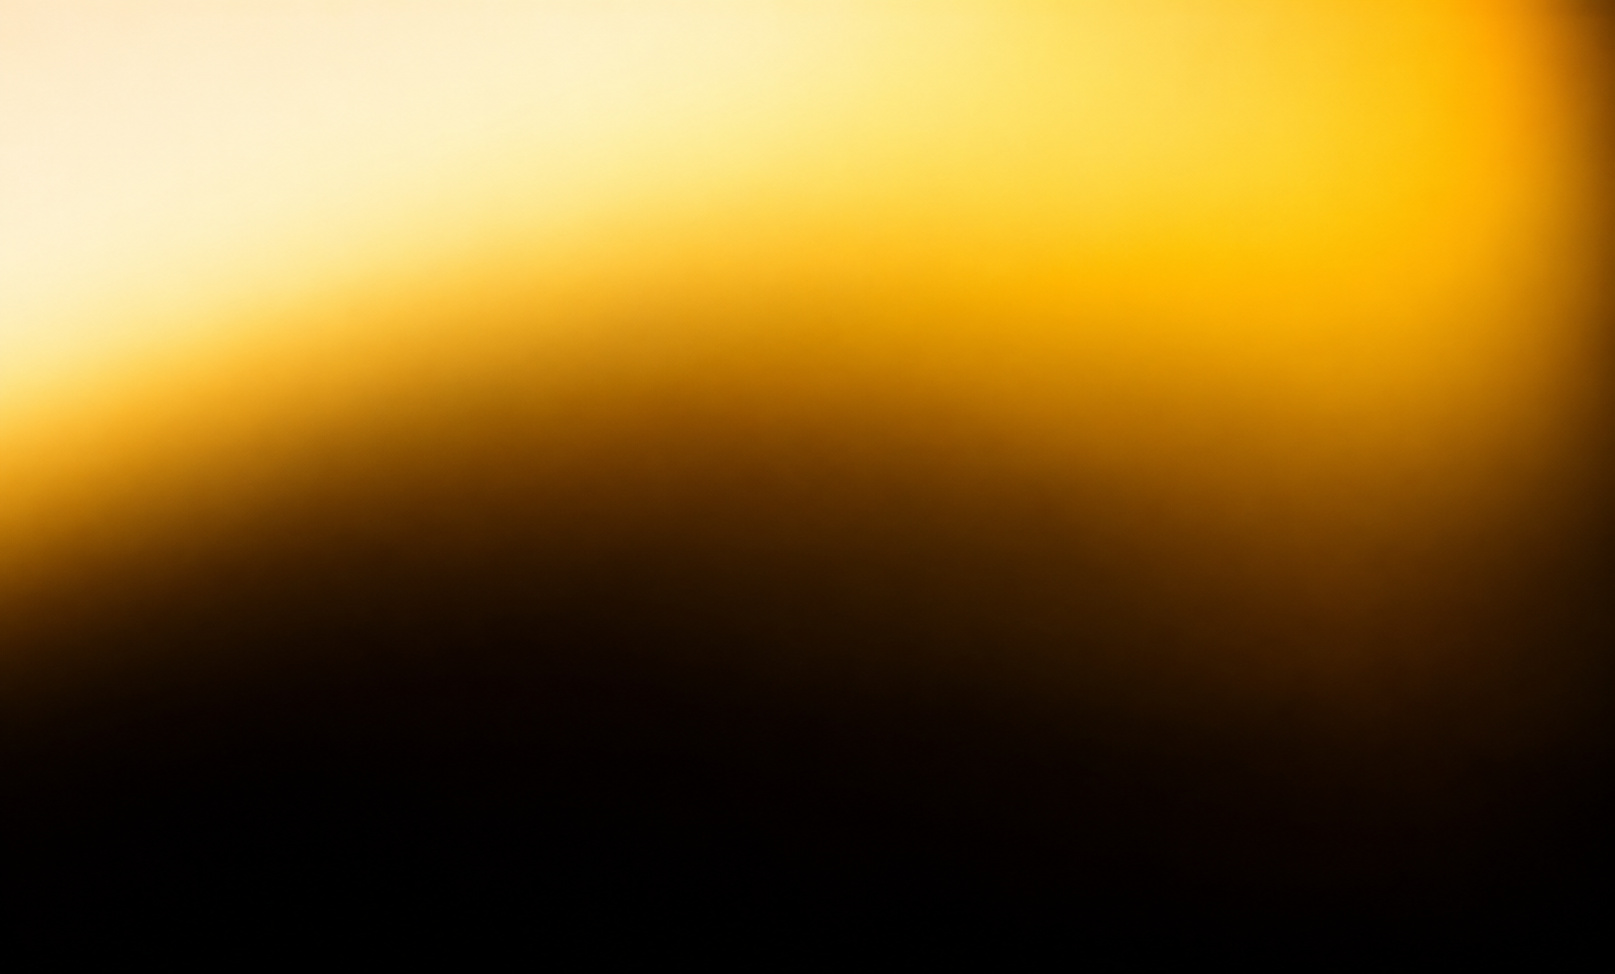
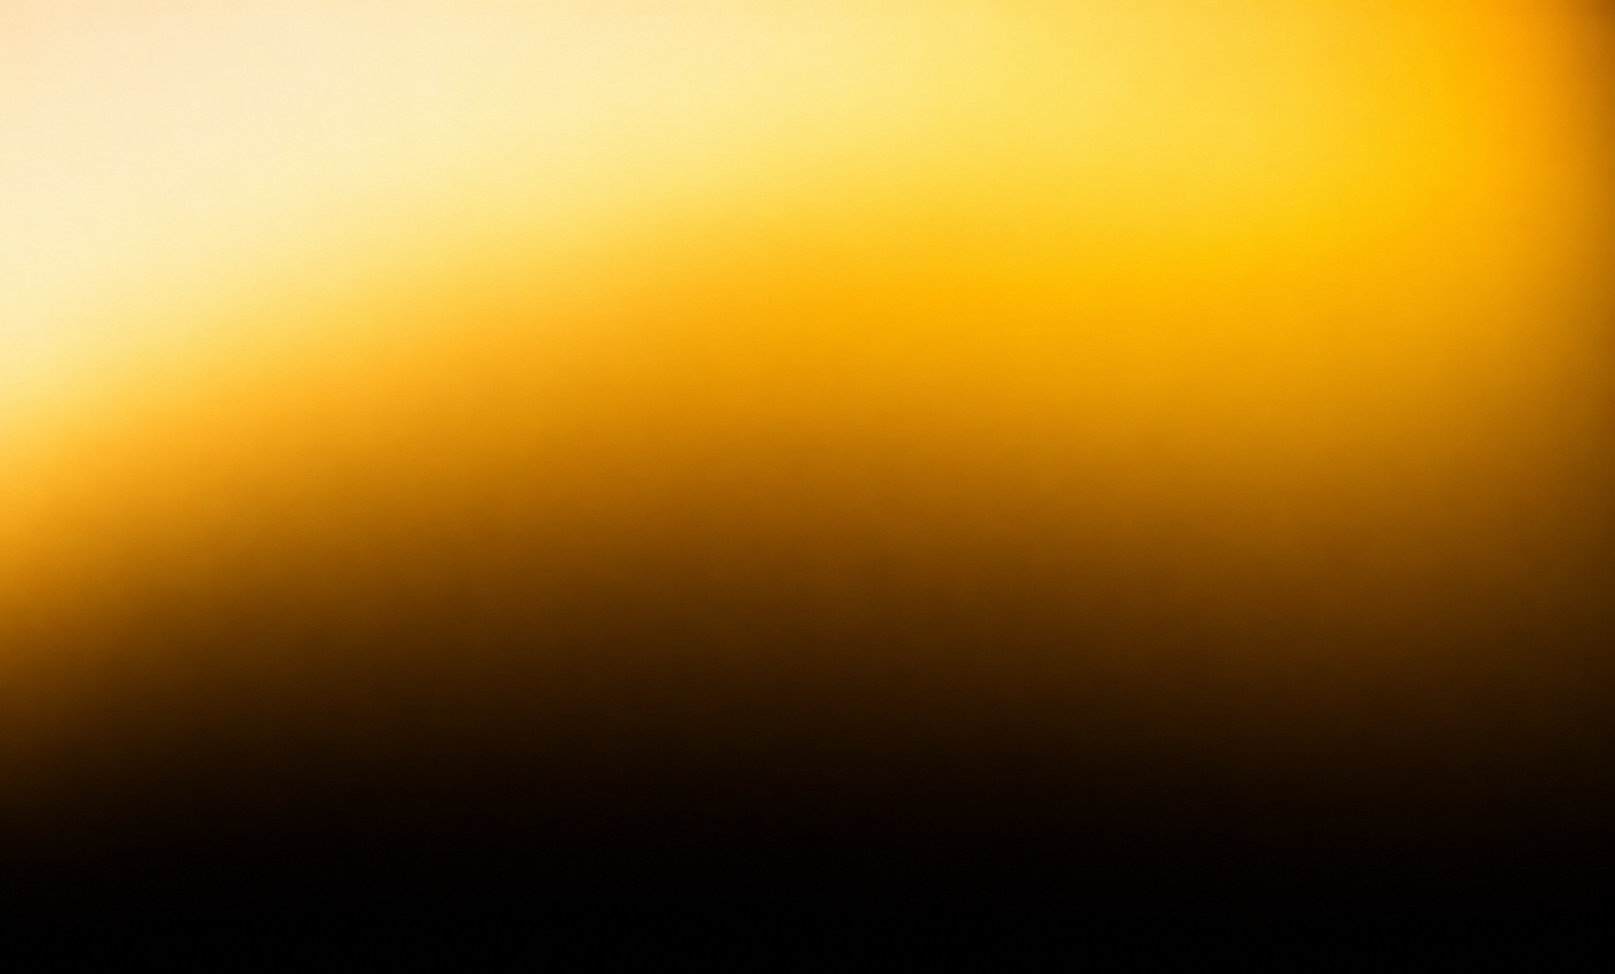
Aurum black and gold system; new login background
- Admin chrome in black with a gold rule; dark sidebar with gold active
  states; gold tab underlines, row highlights and progress
- Warm bronze/gold chart palette (validated for colour-vision deficiency)
- GP and investor portals keep their own brand colours
- Login background replaced with the ivory-to-amber gradient

Claude-Session: https://claude.ai/code/session_01LmAqqPaxgHdyrEgspiCfJx

diff --git a/src/components/admin/AdminTopBar.tsx b/src/components/admin/AdminTopBar.tsx
@@ -3,41 +3,41 @@ import { Bell, Search, ShieldCheck } from "lucide-react";
 import { AurumWordmark } from "@/components/brand/Logo";
 import { RoleSwitcher } from "./PreviewRole";
 
+/** Aurum chrome: black bar, gold rule — the administrator's own brand. */
 export function AdminTopBar({ context }: { context?: string }) {
   return (
-    <header className="flex h-14 items-center justify-between border-b border-stone-200 bg-white px-6">
-      <div className="flex items-center gap-5">
-        <Link href="/admin" aria-label="Aurum home">
-          <AurumWordmark />
-        </Link>
-        <span className="h-5 w-px bg-stone-200" />
-        <span className="text-[12px] font-semibold uppercase tracking-[0.14em] text-stone-500">
-          {context ?? "Administration"}
-        </span>
-      </div>
-      <div className="flex items-center gap-2">
-        <div className="relative hidden md:block">
-          <Search size={14} strokeWidth={1.8} className="absolute left-3 top-1/2 -translate-y-1/2 text-stone-400" />
-          <input
-            placeholder="Search funds, investors, documents"
-            className="h-8 w-[300px] rounded-[3px] border border-stone-200 bg-stone-50 pl-8 pr-12 text-[13px] placeholder:text-stone-400 focus:border-ink-900 focus:bg-white focus:outline-none"
-          />
-          <kbd className="absolute right-2 top-1/2 -translate-y-1/2 rounded-[2px] border border-stone-200 bg-white px-1.5 font-mono text-[10px] text-stone-500">
-            ⌘K
-          </kbd>
+    <header className="relative z-20 bg-ink-950 text-white">
+      <div className="flex h-14 items-center justify-between px-6">
+        <div className="flex items-center gap-5">
+          <Link href="/admin" aria-label="Aurum home">
+            <AurumWordmark tone="light" />
+          </Link>
+          <span className="h-5 w-px bg-white/15" />
+          <span className="text-[12px] font-semibold uppercase tracking-[0.14em] text-gold-400">{context ?? "Administration"}</span>
         </div>
-        <button className="relative flex h-8 w-8 items-center justify-center rounded-[3px] text-stone-500 hover:bg-stone-100 hover:text-ink-900" aria-label="Notifications">
-          <Bell size={16} strokeWidth={1.6} />
-          <span className="absolute right-1.5 top-1.5 h-1.5 w-1.5 rounded-full bg-gold-400" />
-        </button>
-        <Link
-          href="/admin/access"
-          className="flex h-8 items-center gap-1.5 rounded-[3px] px-2 text-[12px] font-medium text-stone-500 hover:bg-stone-100 hover:text-ink-900"
-        >
-          <ShieldCheck size={15} strokeWidth={1.6} /> Access
-        </Link>
-        <RoleSwitcher />
+        <div className="flex items-center gap-2">
+          <div className="relative hidden md:block">
+            <Search size={14} strokeWidth={1.8} className="absolute left-3 top-1/2 -translate-y-1/2 text-white/40" />
+            <input
+              placeholder="Search funds, investors, documents"
+              className="h-8 w-[300px] rounded-[3px] border border-white/10 bg-white/[0.06] pl-8 pr-12 text-[13px] text-white placeholder:text-white/40 focus:border-gold-400 focus:bg-white/10 focus:outline-none"
+            />
+            <kbd className="absolute right-2 top-1/2 -translate-y-1/2 rounded-[2px] border border-white/15 px-1.5 font-mono text-[10px] text-white/50">⌘K</kbd>
+          </div>
+          <button className="relative flex h-8 w-8 items-center justify-center rounded-[3px] text-white/60 hover:bg-white/10 hover:text-white" aria-label="Notifications">
+            <Bell size={16} strokeWidth={1.6} />
+            <span className="absolute right-1.5 top-1.5 h-1.5 w-1.5 rounded-full bg-gold-400" />
+          </button>
+          <Link
+            href="/admin/access"
+            className="flex h-8 items-center gap-1.5 rounded-[3px] px-2 text-[12px] font-medium text-white/60 hover:bg-white/10 hover:text-white"
+          >
+            <ShieldCheck size={15} strokeWidth={1.6} /> Access
+          </Link>
+          <RoleSwitcher />
+        </div>
       </div>
+      <div className="h-[2px] bg-gradient-to-r from-gold-400 via-gold-500 to-gold-700" />
     </header>
   );
 }

diff --git a/src/components/fund/FundSidebar.tsx b/src/components/fund/FundSidebar.tsx
@@ -66,20 +66,20 @@ const groups = [
 export function FundSidebar() {
   const path = usePathname();
   return (
-    <nav className="flex w-[232px] shrink-0 flex-col border-r border-stone-200 bg-white">
-      <div className="border-b border-stone-200 p-3">
-        <button className="flex w-full items-center justify-between rounded-[3px] border border-stone-200 px-3 py-2 text-left hover:border-stone-400">
+    <nav className="flex w-[232px] shrink-0 flex-col bg-ink-900 text-white">
+      <div className="border-b border-white/10 p-3">
+        <button className="flex w-full items-center justify-between rounded-[3px] border border-white/15 px-3 py-2 text-left hover:border-gold-400/60">
           <span>
-            <span className="block text-[10px] font-semibold uppercase tracking-[0.14em] text-stone-500">Fund Solution</span>
-            <span className="block text-[13px] font-semibold text-ink-900">All vehicles</span>
+            <span className="block text-[10px] font-semibold uppercase tracking-[0.14em] text-gold-400">Fund Solution</span>
+            <span className="block text-[13px] font-semibold text-white">All vehicles</span>
           </span>
-          <ChevronsUpDown size={14} strokeWidth={1.8} className="text-stone-400" />
+          <ChevronsUpDown size={14} strokeWidth={1.8} className="text-white/40" />
         </button>
       </div>
       <div className="flex-1 overflow-y-auto px-3 py-4">
         {groups.map((g, gi) => (
           <div key={gi} className={gi > 0 ? "mt-5" : ""}>
-            {g.label && <div className="mb-1.5 px-2 text-[10px] font-semibold uppercase tracking-[0.14em] text-stone-400">{g.label}</div>}
+            {g.label && <div className="mb-1.5 px-2 text-[10px] font-semibold uppercase tracking-[0.14em] text-white/35">{g.label}</div>}
             <ul className="space-y-px">
               {g.items.map((it) => {
                 const active = "exact" in it && it.exact ? path === it.href : path.startsWith(it.href);
@@ -90,14 +90,14 @@ export function FundSidebar() {
                       href={it.href}
                       className={cx(
                         "relative flex items-center gap-2.5 rounded-[3px] px-2 py-[7px] text-[13px] transition-colors",
-                        active ? "bg-stone-100 font-semibold text-ink-900" : "text-stone-600 hover:bg-stone-50 hover:text-ink-900",
+                        active ? "bg-white/[0.07] font-semibold text-white" : "text-white/60 hover:bg-white/[0.04] hover:text-white",
                       )}
                     >
-                      {active && <span className="absolute -left-3 top-1 bottom-1 w-[2px] bg-gold-400" />}
-                      <Icon size={15} strokeWidth={active ? 2 : 1.6} />
+                      {active && <span className="absolute -left-3 top-1 bottom-1 w-[3px] bg-gold-400" />}
+                      <Icon size={15} strokeWidth={active ? 2 : 1.6} className={active ? "text-gold-400" : ""} />
                       <span className="flex-1">{it.label}</span>
                       {"badge" in it && it.badge ? (
-                        <span className="num rounded-[2px] bg-ink-900 px-1.5 py-px text-[10px] font-semibold text-white">{it.badge}</span>
+                        <span className="num rounded-[2px] bg-gold-400 px-1.5 py-px text-[10px] font-semibold text-ink-900">{it.badge}</span>
                       ) : null}
                     </Link>
                   </li>
@@ -107,8 +107,8 @@ export function FundSidebar() {
           </div>
         ))}
       </div>
-      <div className="border-t border-stone-200 p-3">
-        <Link href="/admin" className="flex items-center gap-2 rounded-[3px] px-2 py-2 text-[12px] font-medium text-stone-500 hover:bg-stone-50 hover:text-ink-900">
+      <div className="border-t border-white/10 p-3">
+        <Link href="/admin" className="flex items-center gap-2 rounded-[3px] px-2 py-2 text-[12px] font-medium text-white/50 hover:bg-white/[0.04] hover:text-white">
           <ArrowLeft size={14} strokeWidth={1.8} /> Aurum Platform
         </Link>
       </div>

diff --git a/src/components/admin/PreviewRole.tsx b/src/components/admin/PreviewRole.tsx
@@ -34,17 +34,17 @@ export function RoleSwitcher() {
   const [open, setOpen] = useState(false);
   const staffAndGp = roles.filter((r) => r.audience !== "Investor");
   return (
-    <div className="relative ml-2 border-l border-stone-200 pl-4">
+    <div className="relative ml-2 border-l border-white/15 pl-4">
       <button onClick={() => setOpen((o) => !o)} className="flex items-center gap-2.5 text-left" aria-expanded={open}>
         <Avatar label={initials(user.name)} />
         <span className="hidden leading-tight sm:block">
-          <span className="block text-[12px] font-semibold text-ink-900">{user.name}</span>
-          <span className="block text-[11px] text-stone-500">{user.title}</span>
+          <span className="block text-[12px] font-semibold text-white">{user.name}</span>
+          <span className="block text-[11px] text-white/50">{user.title}</span>
         </span>
-        <ChevronDown size={14} className="text-stone-400" />
+        <ChevronDown size={14} className="text-white/40" />
       </button>
       {open && (
-        <div className="absolute right-0 top-11 z-50 w-[300px] rounded-[4px] border border-stone-200 bg-white py-2 shadow-[0_8px_24px_rgba(11,21,25,0.10)]">
+        <div className="absolute right-0 top-11 z-50 w-[300px] text-ink-900 rounded-[4px] border border-stone-200 bg-white py-2 shadow-[0_8px_24px_rgba(11,21,25,0.10)]">
           <div className="px-4 pb-2 text-[10px] font-semibold uppercase tracking-[0.14em] text-stone-400">Preview as role</div>
           {staffAndGp.map((r) => (
             <button

diff --git a/src/components/Tabs.tsx b/src/components/Tabs.tsx
@@ -16,7 +16,7 @@ export function Tabs({ tabs }: { tabs: { id: string; label: string; count?: numb
             onClick={() => setActive(t.id)}
             className={cx(
               "-mb-px border-b-2 pb-3 pt-1 text-[13px] transition-colors",
-              active === t.id ? "border-ink-900 font-semibold text-ink-900" : "border-transparent text-stone-500 hover:text-ink-900",
+              active === t.id ? "border-gold-500 font-semibold text-ink-900" : "border-transparent text-stone-500 hover:text-ink-900",
             )}
           >
             {t.label}

diff --git a/src/app/admin/fund/gps/[gpId]/[[...section]]/page.tsx b/src/app/admin/fund/gps/[gpId]/[[...section]]/page.tsx
@@ -366,7 +366,7 @@ export default async function GpWorkspace({ params }: { params: Promise<{ gpId: 
             href={`/admin/fund/gps/${gp.id}${s ? `/${s}` : ""}`}
             className={cx(
               "-mb-px border-b-2 pb-3 pt-1 text-[13px]",
-              current === s ? "border-ink-900 font-semibold text-ink-900" : "border-transparent text-stone-500 hover:text-ink-900",
+              current === s ? "border-gold-500 font-semibold text-ink-900" : "border-transparent text-stone-500 hover:text-ink-900",
             )}
           >
             {l}

diff --git a/src/app/globals.css b/src/app/globals.css
@@ -46,10 +46,10 @@
 }
 
 :root {
-  --brand: #0b1519;
+  --brand: #e0b000;
   --brand-2: #f8c618;
-  --brand-ink: #ffffff;
-  --brand-soft: #f7f7f4;
+  --brand-ink: #0b1519;
+  --brand-soft: #fdf8e4;
 }
 
 @theme inline {
@@ -129,7 +129,7 @@ body {
   border-bottom: 0;
 }
 .data-table tbody tr.row-link:hover td {
-  background: var(--color-stone-50);
+  background: color-mix(in srgb, var(--brand-soft) 70%, white);
   cursor: pointer;
 }
 .data-table .r {

diff --git a/src/components/fund/FlowsChart.tsx b/src/components/fund/FlowsChart.tsx
@@ -3,8 +3,8 @@
 import { useState } from "react";
 import { quarterlyFlows } from "@/lib/data";
 
-const C_CONTRIB = "#3A65A8";
-const C_DIST = "#C08F00";
+const C_CONTRIB = "#9A5B2E";
+const C_DIST = "#D4A20C";
 
 export function FlowsChart() {
   const [hover, setHover] = useState<number | null>(null);
